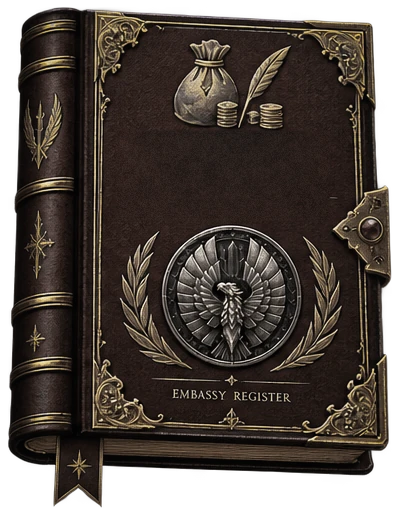
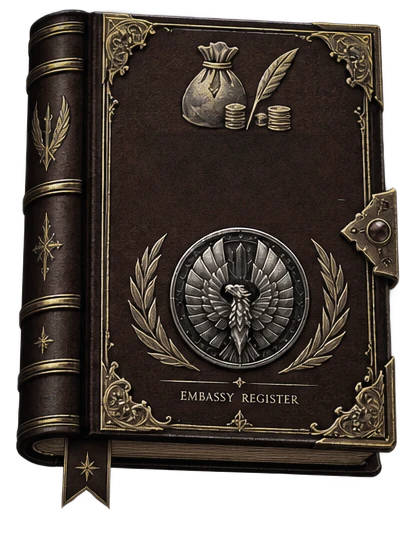
Stop the shelf emptying itself, and stand the Chronicles level
Three faults, found from a screen recording and from measuring the covers.

THE SHELF EMPTIED AND REFILLED. The muster was keyed on `shelf.state`, which
goes loading -> ready when the archivist answers, so the entrance ran twice:
once on mount, and again on the reply — and because the cleanup clears the
props first, the second run showed a full shelf, blanked it, and filled it
again. The books do not come from that fetch. They are the static SHELF
registry; the fetch only says which tab each volume is bound to. It runs once
now, and at `page` rather than `board` — a board is a hinged cover swinging,
this is one object arriving on a shelf, and it is 300ms less of it.

THE MUSTER STARTED FROM A CORNER. `from: 'center'` staggers by ARRAY index,
and the shelf's array is section-major: index 4 of nine is Hall of Honor,
which sits top-right. So "outward from the centre" filled outward from a
corner and read as arbitrary. `grid: 'auto'` makes GSAP measure where the
elements actually are, and the word means what it says.

THE CHRONICLES ROW SAT ASKEW, and this one predates the animation work — it
was only exposed when that row became three-across. The standalone covers were
normalised on WIDTH on the assumption they shared the sheet's proportions, and
the Top Secret volume does not: it is a squatter book, 0.857 wide per unit
tall against the sheet's 0.828. Normalised on width it came out 448 tall
against the sheet's 459-468, which put a three-and-a-half percent difference
[…]

Changed region(s): [[0.0, 0.0, 0.99, 0.9624]]

diff --git a/web/src/components/Shelf.tsx b/web/src/components/Shelf.tsx
@@ -30,6 +30,14 @@ export function Shelf({ onOpen }: Props) {
    * transition on `transform` — and a tween writing inline transform to that
    * element would be chased by its own transition, which is the surest way to
    * get motion that looks broken rather than wrong.
+   *
+   * RUNS ONCE, ON MOUNT, AND THE EMPTY DEPENDENCY LIST IS THE POINT. It was
+   * keyed on `shelf.state` first, which made the volumes muster TWICE: once
+   * when the component mounted and again when the archivist answered and the
+   * state went from loading to ready. The books do not come from that fetch —
+   * they are the static SHELF registry, and the fetch only says which tab each
+   * one is bound to — so there was never anything for a second run to add
+   * except a second entrance on top of the first.
    */
   useGSAP(() => staged(({ moving }) => {
     const shelfEl = cabinet.current;
@@ -40,7 +48,9 @@ export function Shelf({ onOpen }: Props) {
 
     const arrive = gsap.fromTo(books,
       { opacity: 0, y: 18 },
-      { opacity: 1, y: 0, duration: D.board, ease: 'draw',
+      // `page`, not `board`: a board is a hinged cover swinging open, and this
+      // is one object arriving on a shelf. It is also 300ms less of it.
+      { opacity: 1, y: 0, duration: D.page, ease: 'draw',
         stagger: STAGGER.muster, clearProps: 'opacity,transform' });
     // Nine volumes blanked and never un-blanked is a shelf nobody can read.
     const rescue = failsafe(arrive);
@@ -50,7 +60,7 @@ export function Shelf({ onOpen }: Props) {
       arrive.kill();
       gsap.set(books, { clearProps: 'opacity,transform' });
     };
-  }), [shelf.state]);
+  }), []);
 
   /*
    * Motes drifting through the torchlight.

diff --git a/web/src/motion.ts b/web/src/motion.ts
@@ -96,8 +96,17 @@ export const STAGGER = {
   roll: { each: 0.05, from: 'start', amount: 0.4 },
   /** A cloth embroidering outward. Finer, because there are more threads. */
   weave: { each: 0.018, from: 'start', amount: 0.5 },
-  /** Ranks falling in — outward from the centre of the shelf. */
-  muster: { each: 0.07, from: 'center' },
+  /**
+   * Ranks falling in — outward from the centre of the shelf.
+   *
+   * `grid: 'auto'` is doing real work here and is not decoration. Without it
+   * `from: 'center'` means the centre of the ARRAY, and the shelf's array is
+   * section-major: index 4 of nine is Hall of Honor, which sits top-right. The
+   * volumes filled outward from a corner and it read as arbitrary. With it,
+   * GSAP measures where the elements actually are and 'center' means the
+   * middle of the cabinet, which is what the word was meant to mean.
+   */
+  muster: { each: 0.07, from: 'center', grid: 'auto' },
 } as const;
 
 // ── Defaults ───────────────────────────────────────────────────────────────

diff --git a/web/src/covers.ts b/web/src/covers.ts
@@ -29,9 +29,17 @@ export const COVERS: Record<VolumeSlug, string> = {
   enforcement,
 };
 
-/** Intrinsic size of every cover, so the shelf reserves its space up front. */
-export const COVER_W = 400;
-export const COVER_H = 532;
+/**
+ * Intrinsic size of every cover, so the shelf reserves its space up front.
+ *
+ * Derived by scripts/prepare-volumes.mjs and printed by it — the canvas is
+ * sized to the widest book and the tallest ribbon, so it moves when a cover is
+ * added or a scale changes. If these two numbers stop matching what that script
+ * reports, the shelf reserves the wrong box and every cover is letterboxed
+ * inside it.
+ */
+export const COVER_W = 415;
+export const COVER_H = 537;
 
 /**
  * Where each cover's lettering panel is, as fractions of the cover.
